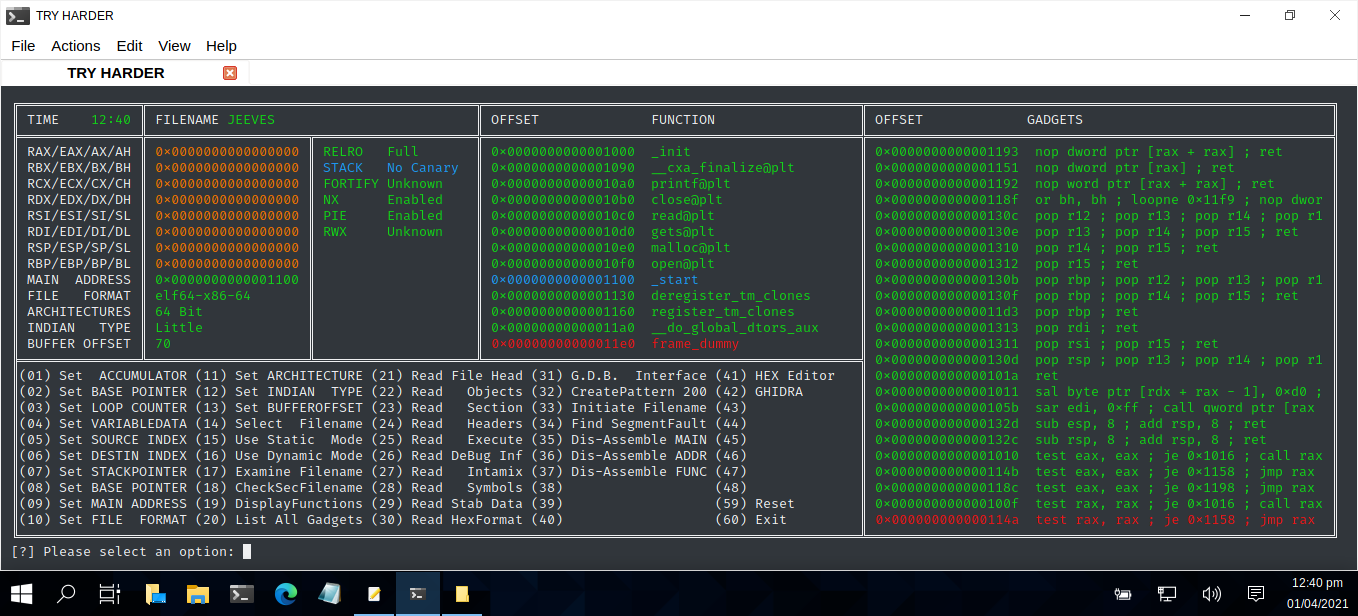
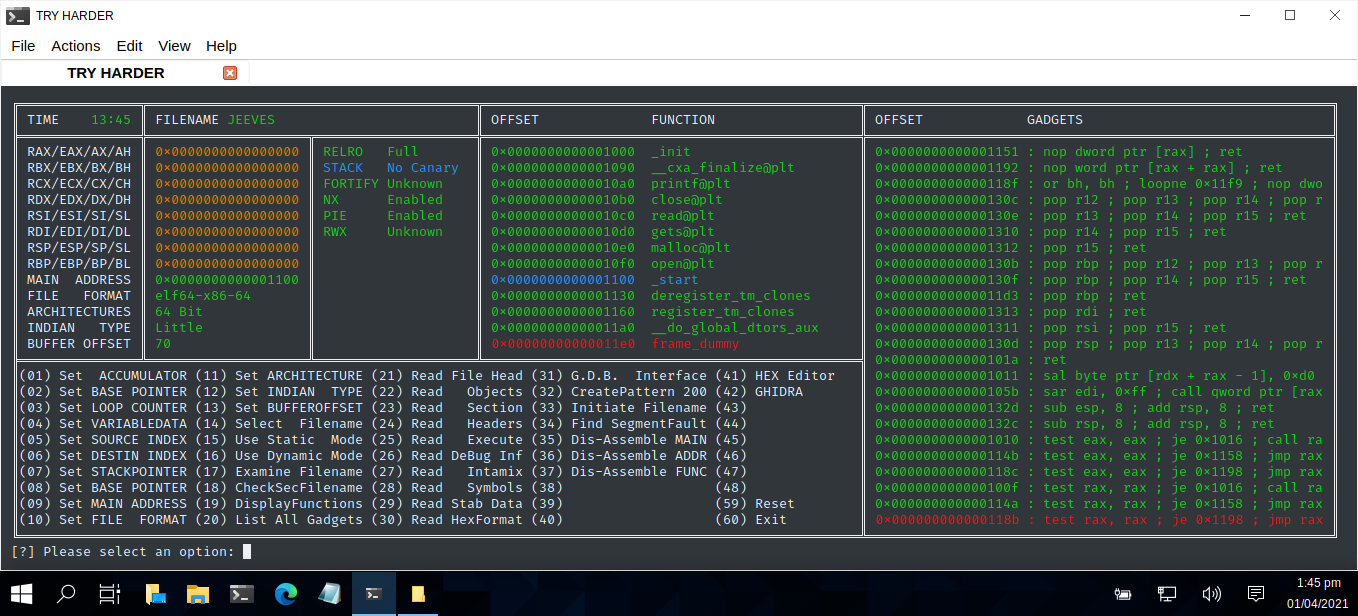
Try harder

Changed region(s): [[0.7423, 0.2159, 0.9897, 0.8636], [0.2474, 0.9253, 0.3711, 1.0], [0.9588, 0.9253, 0.9897, 0.9562]]

diff --git a/BinMaster.py b/BinMaster.py
@@ -498,7 +498,7 @@ SKEW = 0                                # TIME-SKEW SWITCH
 COL0 = 17+12				# MAX LEN COMPUTER NAME
 COL1 = 18                               # 0x0000000000000000
 COL2 = 45                               # MAX LEN ADDRE NAME
-COL3 = 23+33                            # MAX LEN GADD NAME
+COL3 = 23+33                           # MAX LEN GADD NAME
 
 ADDR = [" "*COL2]*maxUser		# ADDRESS VALUES
 GADD = [" "*COL3]*maxUser		# ADDRESS NAMES
@@ -1005,10 +1005,10 @@ while True:
          print(colored("[*] Examining file " + localDir + "/" + FIL.rstrip(" ") + "...", colour3))
          command("ROPgadget --binary " + localDir + "/" + FIL.rstrip(" ") + " > gadgets.tmp")
          catsFile("gadgets.tmp")         
-         command("sed -i '1d' gadgets.tmp")
-         command("sed -i '1d' gadgets.tmp")     
-         command("sed -i 's/://g' gadgets.tmp")
-         command("cat gadgets.tmp | tail -n 27 > tail.tmp")
+#         command("sed -i '1d' gadgets.tmp")
+#         command("sed -i '1d' gadgets.tmp")     
+#         command("sed -i 's/://g' gadgets.tmp")
+         command("cat gadgets.tmp | tail -n 26 > tail.tmp")
          for x in range (0, maxUser):
             GADD[x] = linecache.getline("tail.tmp", x + 1).rstrip(" ")
             GADD[x] = spacePadding(GADD[x], COL3)

diff --git a/README.md b/README.md
@@ -21,7 +21,7 @@ Usage: python3 BinMaster.py
 
 | LANGUAGE  | FILENAME     | MD5 Hash                         | DESCRIPTION    | VERSION    |
 |------     |------        | -------                          | ------         | ----       |
-| python3   | BinMAster.py | c916bcb345bc755f880c8e9dde99a05f | Command Centre | Try Harder |
+| python3   | BinMAster.py | 8d475cdf1b43097e872e892229cbb497 | Command Centre | Try Harder |
 
 
 A python script file to forensically examine binary files for buffer-overflows.
